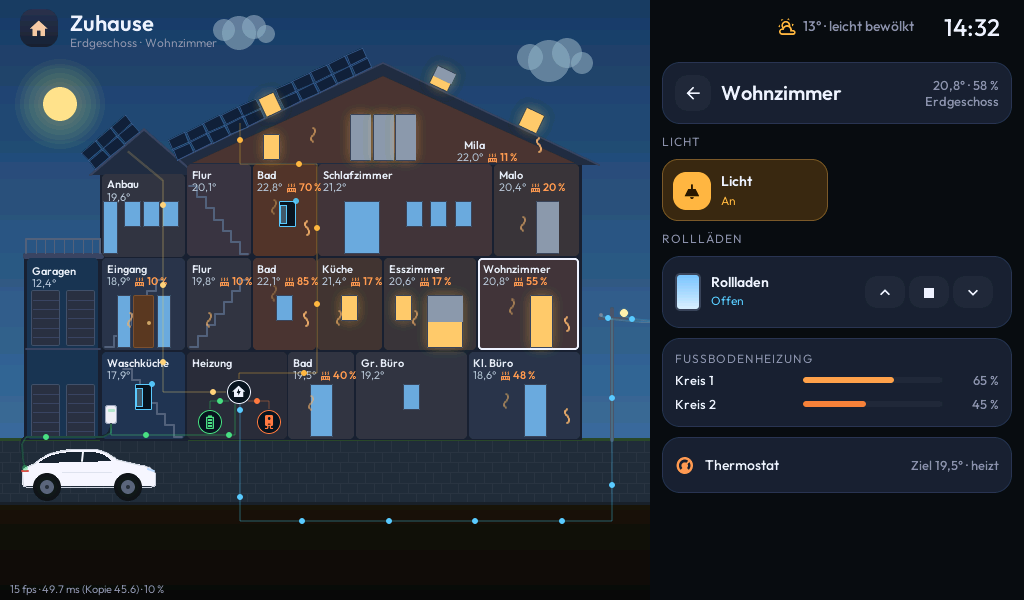
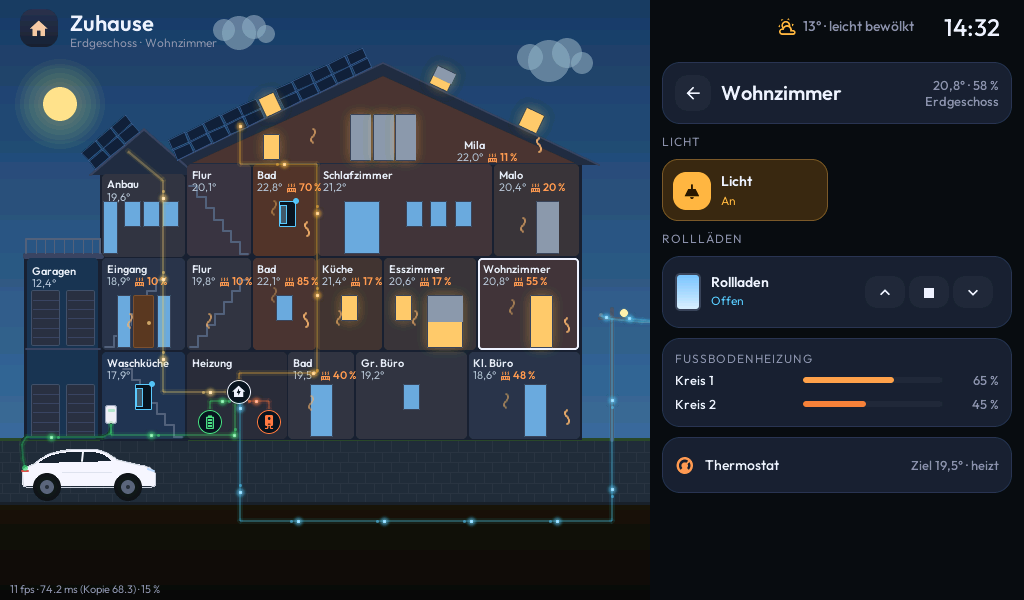
Energiefluss: Kometen mit Schein wie im Energie-Dashboard, Leistungsmessung in der Vorschau (#2)
Kometen mit vorgerechnetem Schein und kleinem Schweif statt einfarbiger Punkte; aktive Leitungen heller mit dezentem Schein. Eine Zeichenebene, je Komet nur ein kleines Rechteck neu, Anzahl unverändert. Vorschau misst den Anteil neu gezeichneter Fläche (vorher 5,8 %, Wärmewellen 3,6 %, mit Kometen 4,7 %).

Claude-Session: https://claude.ai/code/session_01DgtLp9KL3ghCu5CXX829wd

diff --git a/core/house.h b/core/house.h
@@ -817,50 +817,117 @@ inline void build_heat(int ri) {
 }
 
 // ---------------------------------------------------------------------------
-// Energiefluss: Punkte laufen entlang von Linien
+// Energiefluss: Kometen laufen entlang von Linien
 //
-// Alle Punkte zeichnet eine einzige durchsichtige Ebene selbst (kein Objekt je
-// Punkt). Ein LVGL-Timer bewegt sie im Bildschirmtakt; neu gezeichnet werden
-// nur die kleinen Flächen um die Punkte.
+// Wie im Energie-Dashboard: ein Kopf mit weichem Schein und ein kleiner Schweif.
+// Den Schein rechnet der Start einmal je Farbe als Bild vor; LVGL kopiert ihn
+// beim Zeichnen nur. Alle Kometen zeichnet eine einzige durchsichtige Ebene
+// selbst (kein Objekt je Komet). Ein LVGL-Timer bewegt sie im Bildschirmtakt;
+// neu gezeichnet wird je Komet nur ein kleines Rechteck um Kopf und Schweif.
 // ---------------------------------------------------------------------------
-constexpr int32_t DOT_R = 3;
+constexpr int32_t GLOW_R = 6;    // Halbmesser des Scheins (Bild 13 × 13 px)
+constexpr float TAIL_GAP = 7;    // Schweif so weit hinter dem Kopf
+
+struct Comet {
+  lv_point_t head{}, tail{};
+  bool has_tail = false;
+};
 
 struct Flow {
   std::vector<lv_point_precise_t> pts;
-  lv_obj_t *line = nullptr;
-  std::vector<lv_point_t> dots;  // aktuelle Position je Punkt (Szene-Koordinaten)
+  lv_obj_t *line = nullptr, *glow = nullptr;
+  std::vector<Comet> dots;  // aktuelle Position je Komet (Szene-Koordinaten)
   float len = 0, pos = 0, speed = 0;
   int dir = 1;
   uint32_t color;
+  lv_draw_buf_t *sprite = nullptr;
 };
 inline std::map<std::string, Flow> flows;
 inline lv_obj_t *dot_layer = nullptr;
 
+// Kometenkopf: heller, zur Mitte weißlicher Kern mit weichem Schein (einmal je Farbe)
+inline lv_draw_buf_t *glow_sprite(uint32_t color) {
+  static std::map<uint32_t, lv_draw_buf_t *> cache;
+  auto it = cache.find(color);
+  if (it != cache.end())
+    return it->second;
+  const int n = 2 * GLOW_R + 1;
+  lv_draw_buf_t *b = lv_draw_buf_create(n, n, LV_COLOR_FORMAT_ARGB8888, 0);
+  const float core = 2.0f;
+  uint8_t cr = color >> 16, cg = (color >> 8) & 0xFF, cb = color & 0xFF;
+  for (int y = 0; y < n; y++) {
+    uint8_t *row = b->data + y * b->header.stride;
+    for (int x = 0; x < n; x++) {
+      float d = hypotf(x - GLOW_R, y - GLOW_R);
+      float a = std::max(std::clamp(core + 0.5f - d, 0.0f, 1.0f), 0.45f * expf(-(d - core) * (d - core) / 7.0f));
+      float w = std::max(0.0f, 1 - d / (core + 1)) * 0.55f;  // Kern zur Mitte hin weißlich
+      row[4 * x + 0] = (uint8_t) (cb + (255 - cb) * w);
+      row[4 * x + 1] = (uint8_t) (cg + (255 - cg) * w);
+      row[4 * x + 2] = (uint8_t) (cr + (255 - cr) * w);
+      row[4 * x + 3] = (uint8_t) lroundf(255 * std::min(a, 1.0f));
+    }
+  }
+  cache[color] = b;
+  return b;
+}
+
 inline void make_flow(const char *key, std::vector<Pt> pts, uint32_t color) {
   Flow &f = flows[key];
   f.color = color;
+  f.sprite = glow_sprite(color);
   for (auto &p : pts)
     f.pts.push_back({X(p.x), Y(p.y)});
   for (size_t i = 1; i < f.pts.size(); i++)
     f.len += hypotf(f.pts[i].x - f.pts[i - 1].x, f.pts[i].y - f.pts[i - 1].y);
+  // Schein unter der Leitung, nur sichtbar, solange Strom fließt
+  f.glow = lv_line_create(ui.scene);
+  lv_line_set_points(f.glow, f.pts.data(), f.pts.size());
+  lv_obj_set_style_line_color(f.glow, C(color), 0);
+  lv_obj_set_style_line_width(f.glow, 6, 0);
+  lv_obj_set_style_line_opa(f.glow, 22, 0);
+  lv_obj_set_style_line_rounded(f.glow, true, 0);
+  set_hidden(f.glow, true);
   f.line = lv_line_create(ui.scene);
   lv_line_set_points(f.line, f.pts.data(), f.pts.size());
   lv_obj_set_style_line_color(f.line, C(color), 0);
   lv_obj_set_style_line_width(f.line, 2, 0);
   lv_obj_set_style_line_opa(f.line, 50, 0);
-  // ein Punkt je ~85 px, kurze Leitungen haben einen
+  // ein Komet je ~85 px, kurze Leitungen haben einen
   f.dots.resize(std::max(1, (int) lroundf(f.len / 85)));
 }
 
-// Fläche um einen Punkt (Bildschirm-Koordinaten) als ungültig markieren
-inline void invalidate_dot(const lv_point_t &p, const lv_point_t &q) {
+// Punkt auf der Leitung nach Strecke d ab Anfang
+inline lv_point_t flow_point(const Flow &f, float d) {
+  for (size_t k = 1; k < f.pts.size(); k++) {
+    float seg = hypotf(f.pts[k].x - f.pts[k - 1].x, f.pts[k].y - f.pts[k - 1].y);
+    if (d <= seg || k == f.pts.size() - 1) {
+      float t = seg > 0 ? std::clamp(d / seg, 0.0f, 1.0f) : 0;
+      return {(int32_t) lroundf(f.pts[k - 1].x + (f.pts[k].x - f.pts[k - 1].x) * t),
+              (int32_t) lroundf(f.pts[k - 1].y + (f.pts[k].y - f.pts[k - 1].y) * t)};
+    }
+    d -= seg;
+  }
+  return {(int32_t) f.pts[0].x, (int32_t) f.pts[0].y};
+}
+
+// Ein Rechteck um Kopf und Schweif (alt und neu) als ungültig markieren: LVGL merkt
+// sich nur 32 Flächen pro Bild, darüber zeichnet es den ganzen Bildschirm neu
+inline void invalidate_comet(const Comet &o, const Comet &n) {
+  int32_t x1 = std::min(o.head.x, n.head.x), y1 = std::min(o.head.y, n.head.y);
+  int32_t x2 = std::max(o.head.x, n.head.x), y2 = std::max(o.head.y, n.head.y);
+  for (const Comet *c : {&o, &n})
+    if (c->has_tail) {
+      x1 = std::min(x1, c->tail.x);
+      y1 = std::min(y1, c->tail.y);
+      x2 = std::max(x2, c->tail.x);
+      y2 = std::max(y2, c->tail.y);
+    }
   lv_area_t a;
   lv_obj_get_coords(dot_layer, &a);
-  lv_area_t d = {a.x1 + std::min(p.x, q.x) - DOT_R - 1, a.y1 + std::min(p.y, q.y) - DOT_R - 1,
-                 a.x1 + std::max(p.x, q.x) + DOT_R + 1, a.y1 + std::max(p.y, q.y) + DOT_R + 1};
+  lv_area_t d = {a.x1 + x1 - GLOW_R - 1, a.y1 + y1 - GLOW_R - 1, a.x1 + x2 + GLOW_R + 1, a.y1 + y2 + GLOW_R + 1};
   lv_obj_invalidate_area(dot_layer, &d);
 }
-inline void invalidate_dot(const lv_point_t &p) { invalidate_dot(p, p); }
+inline void invalidate_comet(const Comet &c) { invalidate_comet(c, c); }
 
 inline void flow_set(const char *key, float watts, int dir = 1, uint32_t color = 0) {
   auto it = flows.find(key);
@@ -874,14 +941,18 @@ inline void flow_set(const char *key, float watts, int dir = 1, uint32_t color =
   bool recolor = color && color != f.color;
   if (recolor) {
     f.color = color;
+    f.sprite = glow_sprite(color);
     lv_obj_set_style_line_color(f.line, C(color), 0);
+    lv_obj_set_style_line_color(f.glow, C(color), 0);
   }
-  if (was_on != on)
-    lv_obj_set_style_line_opa(f.line, on ? 56 : 15, 0);
-  // Nur die Flächen der Punkte neu zeichnen, wenn der Fluss an/aus geht oder die Farbe wechselt
+  if (was_on != on) {
+    lv_obj_set_style_line_opa(f.line, on ? 80 : 15, 0);
+    set_hidden(f.glow, !on);
+  }
+  // Nur die Flächen der Kometen neu zeichnen, wenn der Fluss an/aus geht oder die Farbe wechselt
   if (dot_layer && (was_on != on || recolor))
-    for (auto &p : f.dots)
-      invalidate_dot(p);
+    for (auto &c : f.dots)
+      invalidate_comet(c);
 }
 
 inline void flows_step(float dt) {
@@ -894,22 +965,17 @@ inline void flows_step(float dt) {
     f.pos = fmodf(f.pos + f.dir * v * dt + f.len, f.len);
     for (size_t i = 0; i < f.dots.size(); i++) {
       float d = fmodf(f.pos + i * f.len / f.dots.size(), f.len);
-      lv_point_t np = f.dots[i];
-      for (size_t k = 1; k < f.pts.size(); k++) {
-        float seg = hypotf(f.pts[k].x - f.pts[k - 1].x, f.pts[k].y - f.pts[k - 1].y);
-        if (d <= seg || k == f.pts.size() - 1) {
-          float t = seg > 0 ? std::min(1.0f, d / seg) : 0;
-          np = {(int32_t) lroundf(f.pts[k - 1].x + (f.pts[k].x - f.pts[k - 1].x) * t),
-                (int32_t) lroundf(f.pts[k - 1].y + (f.pts[k].y - f.pts[k - 1].y) * t)};
-          break;
-        }
-        d -= seg;
-      }
-      if (np.x != f.dots[i].x || np.y != f.dots[i].y) {
-        // alte und neue Position als eine Fläche: LVGL merkt sich nur 32 Flächen pro Bild,
-        // darüber zeichnet es den ganzen Bildschirm neu
-        invalidate_dot(f.dots[i], np);
-        f.dots[i] = np;
+      Comet n;
+      n.head = flow_point(f, d);
+      // Schweif hinter dem Kopf; gerade am Anfang der Leitung neu gestartet: noch keiner
+      float t = d - f.dir * TAIL_GAP;
+      n.has_tail = t >= 0 && t <= f.len;
+      if (n.has_tail)
+        n.tail = flow_point(f, t);
+      Comet &o = f.dots[i];
+      if (n.head.x != o.head.x || n.head.y != o.head.y || n.has_tail != o.has_tail) {
+        invalidate_comet(o, n);
+        o = n;
       }
     }
   }
@@ -919,22 +985,30 @@ inline void dot_draw_cb(lv_event_t *e) {
   lv_layer_t *layer = lv_event_get_layer(e);
   lv_area_t a;
   lv_obj_get_coords(dot_layer, &a);
-  lv_draw_rect_dsc_t d;
-  lv_draw_rect_dsc_init(&d);
-  d.radius = LV_RADIUS_CIRCLE;
-  d.bg_opa = LV_OPA_COVER;
+  const lv_area_t &clip = layer->_clip_area;
+  auto outside = [&](const lv_area_t &r) { return r.x2 < clip.x1 || r.x1 > clip.x2 || r.y2 < clip.y1 || r.y1 > clip.y2; };
+  lv_draw_rect_dsc_t t;
+  lv_draw_rect_dsc_init(&t);
+  t.radius = LV_RADIUS_CIRCLE;
+  t.bg_opa = 140;
+  lv_draw_image_dsc_t h;
+  lv_draw_image_dsc_init(&h);
   for (auto &kv : flows) {
     Flow &f = kv.second;
     if (f.speed == 0)
       continue;
-    d.bg_color = C(f.color);
-    for (auto &p : f.dots) {
-      lv_area_t r = {a.x1 + p.x - DOT_R, a.y1 + p.y - DOT_R, a.x1 + p.x + DOT_R - 1, a.y1 + p.y + DOT_R - 1};
-      // nur Punkte zeichnen, die im gerade neu gezeichneten Ausschnitt liegen
-      const lv_area_t &c = layer->_clip_area;
-      if (r.x2 < c.x1 || r.x1 > c.x2 || r.y2 < c.y1 || r.y1 > c.y2)
-        continue;
-      lv_draw_rect(layer, &d, &r);
+    t.bg_color = C(f.color);
+    h.src = f.sprite;
+    for (auto &c : f.dots) {
+      // nur Kometen zeichnen, die im gerade neu gezeichneten Ausschnitt liegen
+      if (c.has_tail) {
+        lv_area_t r = {a.x1 + c.tail.x - 1, a.y1 + c.tail.y - 1, a.x1 + c.tail.x + 1, a.y1 + c.tail.y + 1};
+        if (!outside(r))
+          lv_draw_rect(layer, &t, &r);
+      }
+      lv_area_t r = {a.x1 + c.head.x - GLOW_R, a.y1 + c.head.y - GLOW_R, a.x1 + c.head.x + GLOW_R, a.y1 + c.head.y + GLOW_R};
+      if (!outside(r))
+        lv_draw_image(layer, &h, &r);
     }
   }
 }

diff --git a/README.md b/README.md
@@ -44,7 +44,7 @@ All screenshots are rendered from the firmware in CI on every change, with sampl
 - **Rooms coloured by temperature**, from cool blue to warm, with name, temperature and heating valve opening
 - **Windows that live:** they glow warm when the light is on, the roller shutter sits at its real position, and an open window swings its sash inwards with a pulsing dot. All three at the same time.
 - **Floor heating:** thin heat waves rising from the floor, like the heating icon; faster and more of them the wider the valves are open
-- **Energy flow:** dots run from the solar modules to the inverter, battery, heating rod, the car at the wallbox and, via the pole and the overhead line, to or from the grid. Faster with more power, pink when buying, blue when selling.
+- **Energy flow:** glowing comets with a short tail run from the solar modules to the inverter, battery, heating rod, the car at the wallbox and, via the pole and the overhead line, to or from the grid. Lines with current light up; faster with more power, pink when buying, blue when selling.
 - **Day and night** from the sun's position: sun or moon and stars, dark windows at night
 - **Smoke alarm:** the room pulses red and a warning appears
 - Tap a room to open it on the right
